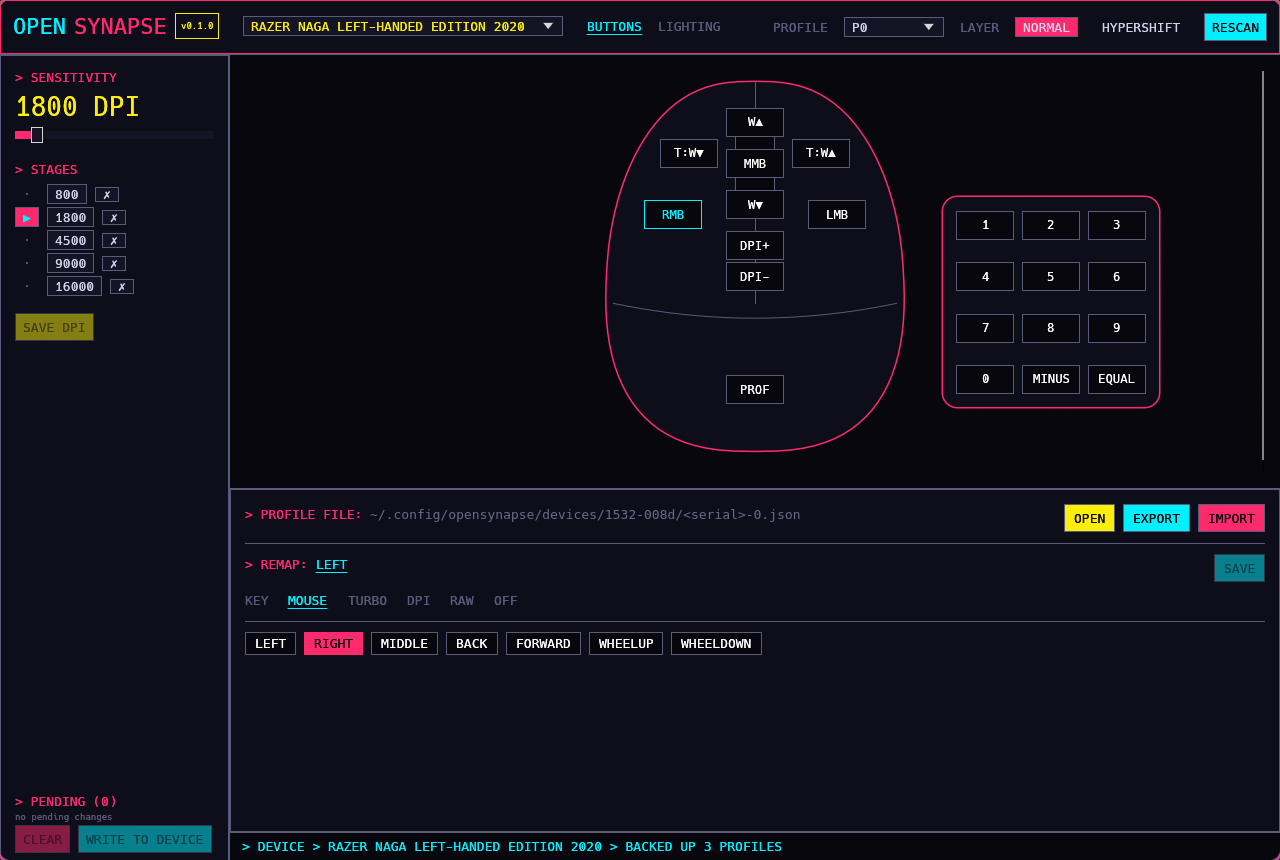
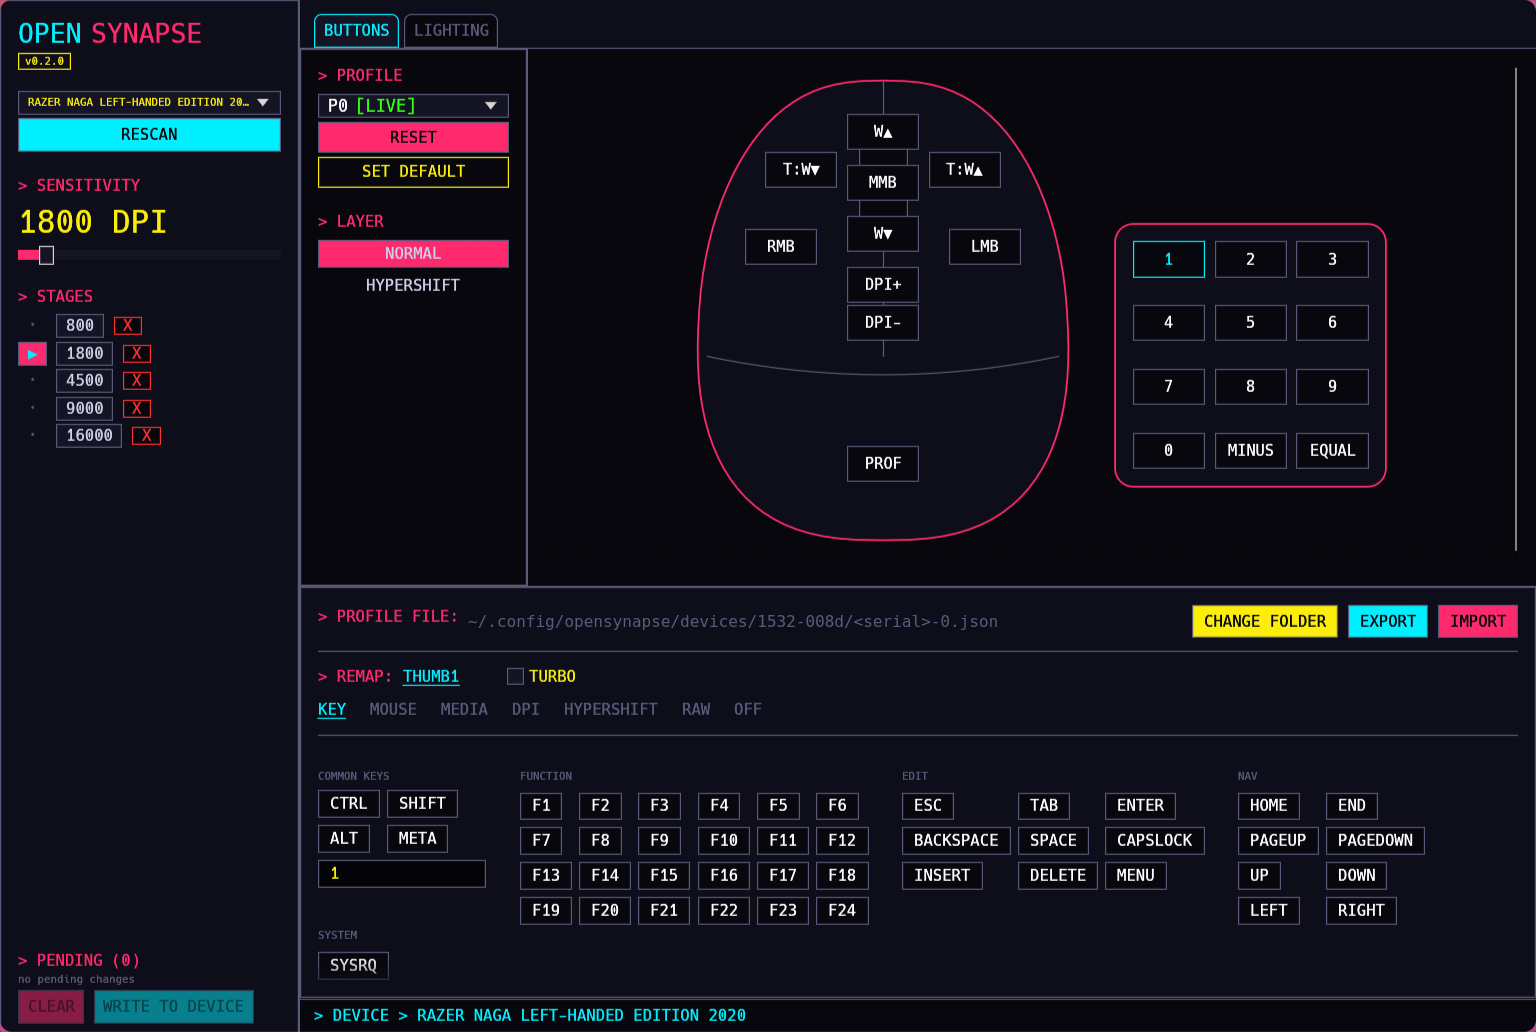
docs: new screenshots and how lighting depends on the OpenRazer daemon

diff --git a/README.md b/README.md
@@ -24,7 +24,7 @@ Right now you can:
 - Export and import profiles as JSON
 - Go back to how the mouse was. The first time the GUI opens a mouse it saves every profile and the lighting to `~/.config/opensynapse/devices/<vid-pid>/` as `*.original.json`, ***RESET*** puts that back and ***SET DEFAULT*** makes what's on the mouse now the new original
 - See which button you're pressing, live, in the GUI
-- Change the lighting and brightness of zones. This one goes through [OpenRazer](https://openrazer.github.io/) (install `openrazer-driver-dkms` on Arch), so it works on any mouse OpenRazer supports, and if the OpenRazer daemon is running it will use your colors like it does for its own apps
+- Change the lighting and brightness of zones. This one goes through [OpenRazer](https://openrazer.github.io/) (install `openrazer-driver-dkms` on Arch), so it works on any mouse OpenRazer supports. The GUI needs the OpenRazer daemon running and shows ***OPENRAZER ONLINE*** or ***OFFLINE*** on the lighting tab; `opensynapse rgb` also works with only the driver. The colors you see come from the mouse itself, so they match what it shows
 
 In the GUI, every change goes to a queue until you hit ***WRITE TO DEVICE*** (lighting also has ***APPLY NOW***). CLI commands write right away.
 
